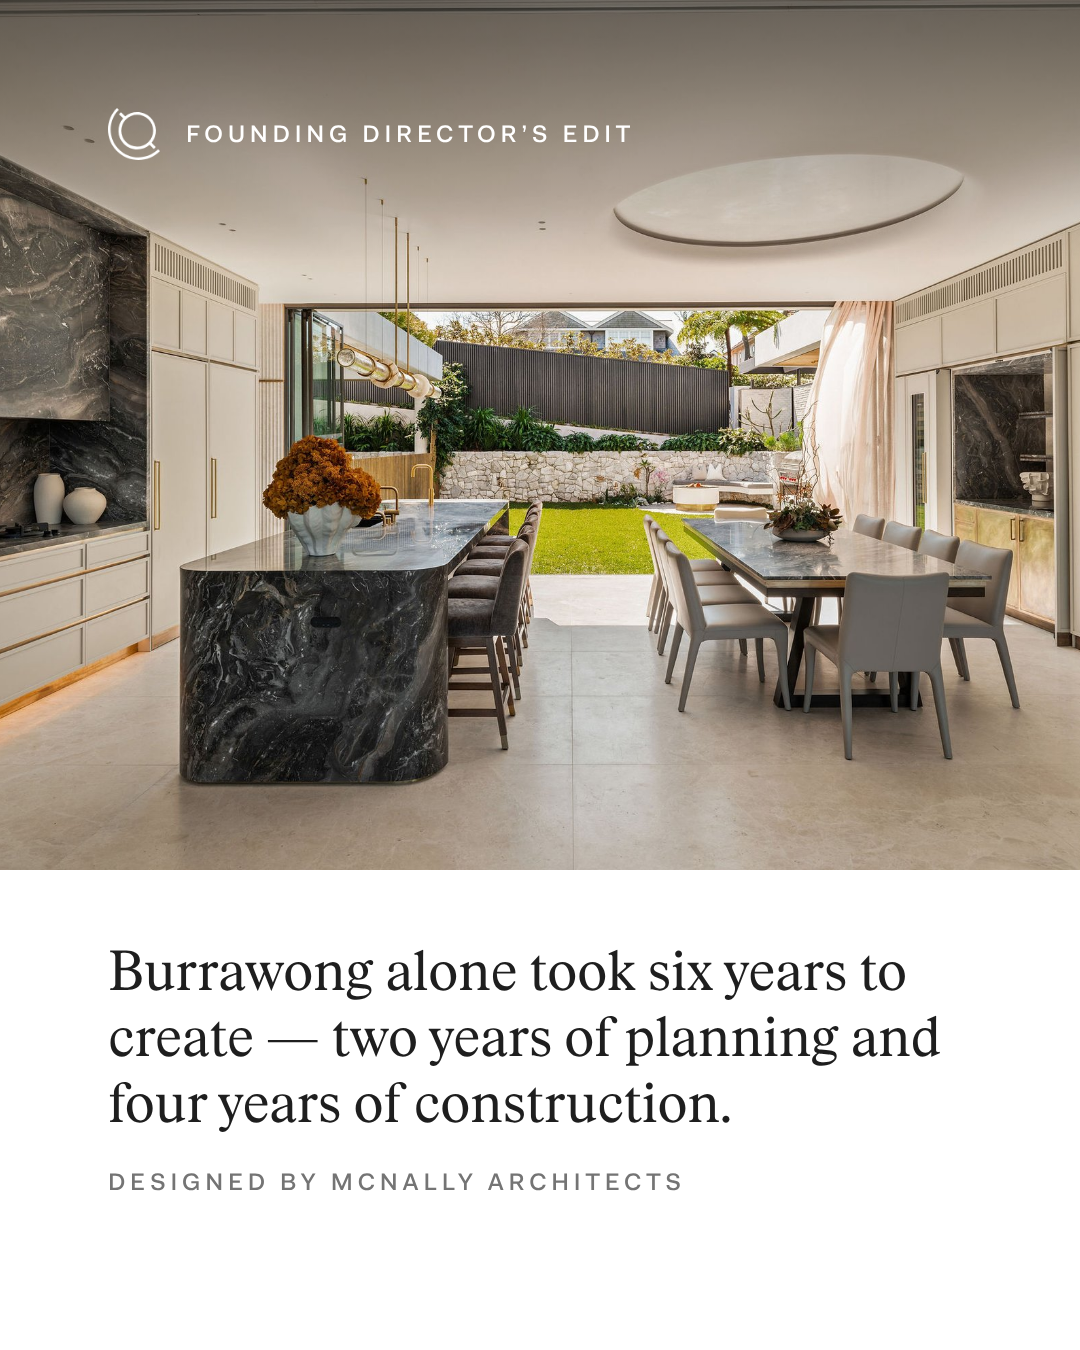
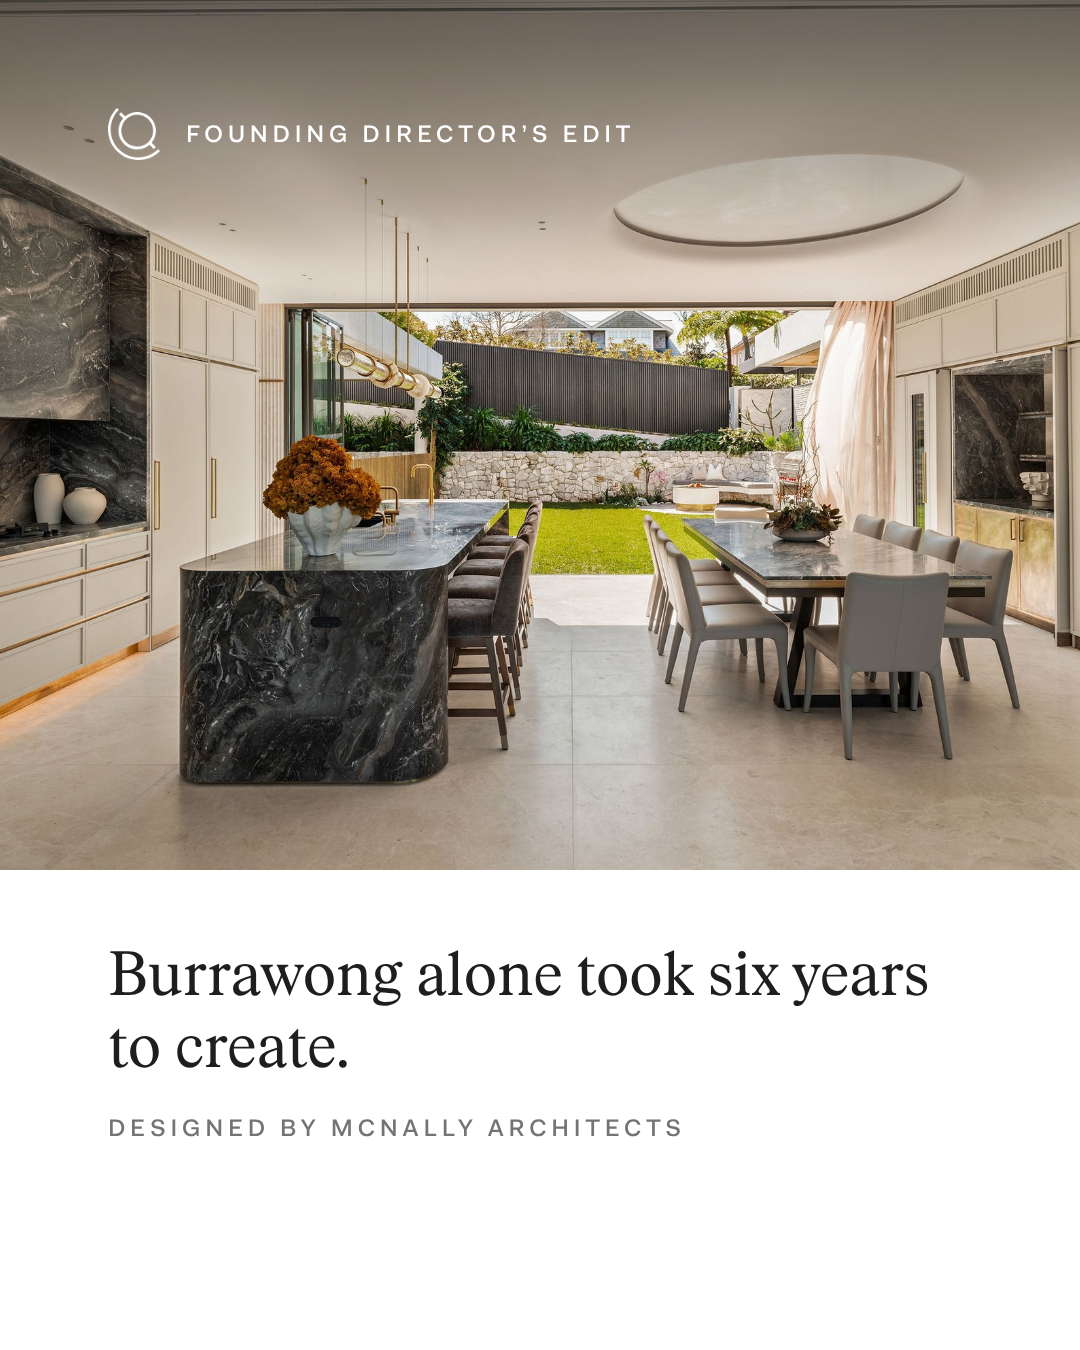
Founding Director's Edit carousel: tighten on-slide copy
Shorter slide lines, with the detail moved into the caption.

Claude-Session: https://claude.ai/code/session_01JwaQGF29hCT2wGxLRb5jt9

diff --git a/founding-directors-edit/2026-11-carousel/caption.md b/founding-directors-edit/2026-11-carousel/caption.md
@@ -1,16 +1,28 @@
 # Instagram carousel: Founding Director's Edit, Oct/Nov 2026
 
 8 slides, 1080 x 1350 (4:5). Post in order `01.png` to `08.png`.
-Built 10 Nov 2026 from the email as sent. Every line on the slides is Michael's approved copy, word for word (headlines take a full stop, as in other Atlas posts).
 Layout follows the Atlas feed carousels in Canva (Life and Local, Meet the Team, PM Case Study): brandmark and series tag top-left, photo-led slides, Stone, White and Terra, and a Stone end card with LINK IN BIO.
+
+## On-slide copy (tightened 10 Nov 2026)
+
+1. A note from Michael Coombs / Where I'm seeing opportunity.
+2. Homes that would be difficult to recreate.
+3. The value of what's already built. / 9 Burrawong Avenue, Mosman
+4. Burrawong alone took six years to create. / Designed by McNally Architects
+5. What would it take to achieve the same result?
+6. Looking ahead. / My expectation is that the market will remain relatively steady.
+7. Two exceptional Mosman residences. / 9 Burrawong Avenue / 9 Sirius Avenue
+8. "It's about recognising the right property, understanding its value and making an informed decision." / Michael Coombs, Founding Director / Link in bio
+
+Slides 2, 4, 6 and 8 are excerpts of Michael's approved email copy. Slide 5 rewords his line as a question; confirm he's happy with it.
 
 ## Caption
 
 Some of the most compelling opportunities in today's market are in homes that would be difficult to recreate.
 
-In his latest Founding Director's Edit, Michael Coombs looks at the value of what's already built. With today's building costs, buyers considering a new build have more to weigh up than the purchase price, and the quality, time and investment already behind a finished home can make it a compelling proposition.
+In his Founding Director's Edit, Michael considers what it would take to achieve the same result. At 9 Burrawong Avenue, that meant six years: two of planning and four of construction. With today's building costs, there's more to weigh up than purchase price alone.
 
-His outlook for the next 12 months: a relatively steady market, with quality stock likely to remain limited in tightly held locations.
+Over the next 12 months, Michael expects a relatively steady market, without dramatic movement in either direction, and quality stock to remain limited in tightly held locations. Rather than predicting the bottom, it's about recognising the right property and understanding its value.
 
 Explore 9 Burrawong Avenue and 9 Sirius Avenue, Mosman, via the link in bio.
 
